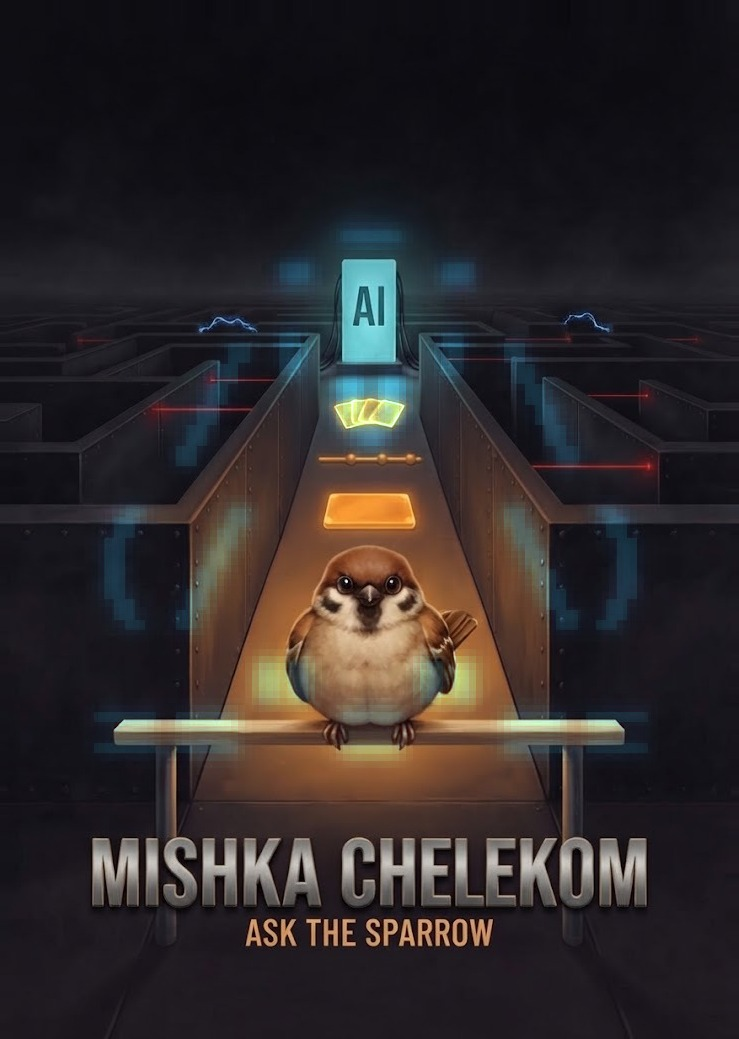
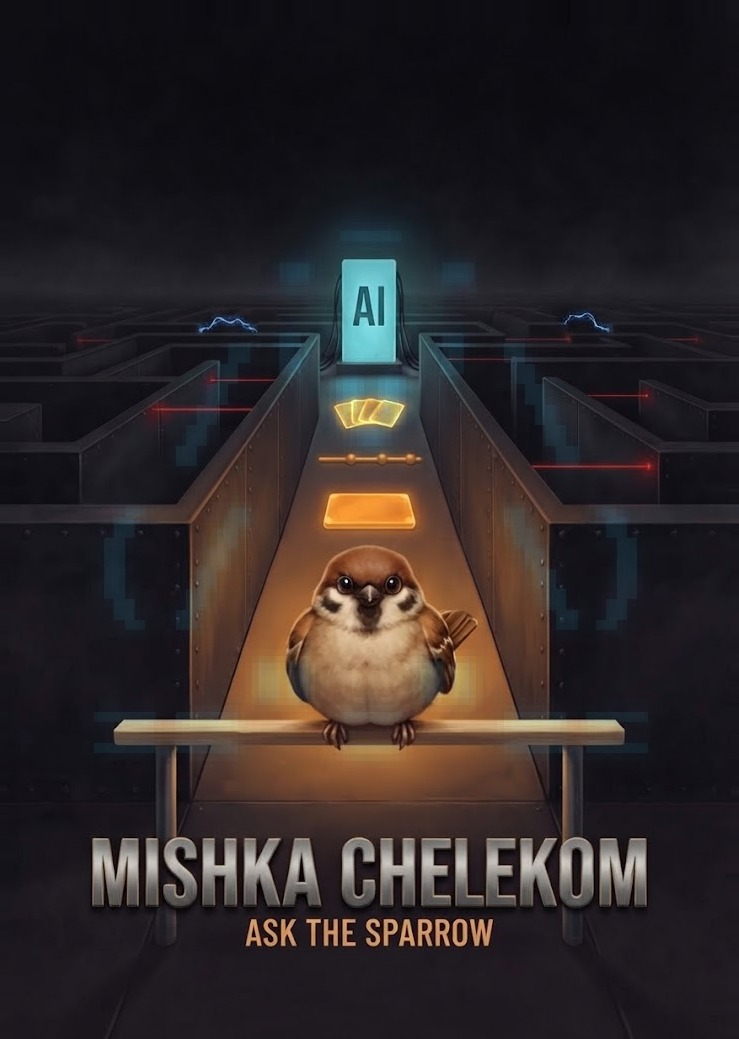
mishka_chelekom's box on the shelf, with its expansion retouched by hand
The root README shows the cover — the sealed face was committed
without rebuilding the shelf, and the README's check failed. The
expansion was retouched by the author, twice; the face and the sealed
cover are cut and stamped from it again.

diff --git a/README.md b/README.md
@@ -187,7 +187,7 @@ The cartridges on offer today, one to a row. The cover links to the cartridge's 
 | <img src="assets/readme/covers/clustering.jpg" width="80" alt="The clustering box cover"> | [**clustering**](igniter/lib/workbench_igniter/features/clustering/)<br>`v0.2.1` | Boots the production release as a distributed node for DNSCluster | [README](igniter/lib/workbench_igniter/features/clustering/README.md)<br>[NEED](igniter/lib/workbench_igniter/features/clustering/NEED.md)<br>[DESIGN](igniter/lib/workbench_igniter/features/clustering/DESIGN.md)<br>[CHANGELOG](igniter/lib/workbench_igniter/features/clustering/CHANGELOG.md) |
 | <img src="assets/readme/covers/health_probe.jpg" width="80" alt="The health_probe box cover"> | [**health_probe**](igniter/lib/workbench_igniter/features/health_probe/)<br>`v0.2.1` | Adds liveness and readiness probes as the first plug of the endpoint | [README](igniter/lib/workbench_igniter/features/health_probe/README.md)<br>[NEED](igniter/lib/workbench_igniter/features/health_probe/NEED.md)<br>[DESIGN](igniter/lib/workbench_igniter/features/health_probe/DESIGN.md)<br>[CHANGELOG](igniter/lib/workbench_igniter/features/health_probe/CHANGELOG.md) |
 | <img src="assets/readme/covers/ash.jpg" width="80" alt="The ash box cover"> | [**ash**](igniter/lib/workbench_igniter/features/ash/)<br>`v0.9.0` | Installs the Ash framework, configured like ash-hq.org's installer for an existing app | [README](igniter/lib/workbench_igniter/features/ash/README.md)<br>[NEED](igniter/lib/workbench_igniter/features/ash/NEED.md)<br>[DESIGN](igniter/lib/workbench_igniter/features/ash/DESIGN.md)<br>[CHANGELOG](igniter/lib/workbench_igniter/features/ash/CHANGELOG.md) |
-| <img src="assets/readme/covers/_placeholder.jpg" width="80" alt="The mishka_chelekom box cover"> | [**mishka_chelekom**](igniter/lib/workbench_igniter/features/mishka_chelekom/)<br>`v0.1.0` | Generates Mishka Chelekom's components into the project, all of them or the ones chosen | [README](igniter/lib/workbench_igniter/features/mishka_chelekom/README.md)<br>[NEED](igniter/lib/workbench_igniter/features/mishka_chelekom/NEED.md)<br>[DESIGN](igniter/lib/workbench_igniter/features/mishka_chelekom/DESIGN.md)<br>[CHANGELOG](igniter/lib/workbench_igniter/features/mishka_chelekom/CHANGELOG.md) |
+| <img src="assets/readme/covers/mishka_chelekom.jpg" width="80" alt="The mishka_chelekom box cover"> | [**mishka_chelekom**](igniter/lib/workbench_igniter/features/mishka_chelekom/)<br>`v0.1.0` | Generates Mishka Chelekom's components into the project, all of them or the ones chosen | [README](igniter/lib/workbench_igniter/features/mishka_chelekom/README.md)<br>[NEED](igniter/lib/workbench_igniter/features/mishka_chelekom/NEED.md)<br>[DESIGN](igniter/lib/workbench_igniter/features/mishka_chelekom/DESIGN.md)<br>[CHANGELOG](igniter/lib/workbench_igniter/features/mishka_chelekom/CHANGELOG.md) |
 | <img src="assets/readme/covers/db_admin.jpg" width="80" alt="The db_admin box cover"> | [**db_admin**](igniter/lib/workbench_igniter/features/db_admin/)<br>`v0.2.1` | Adds a database admin to the workspace, open on the project's database | [README](igniter/lib/workbench_igniter/features/db_admin/README.md)<br>[NEED](igniter/lib/workbench_igniter/features/db_admin/NEED.md)<br>[DESIGN](igniter/lib/workbench_igniter/features/db_admin/DESIGN.md)<br>[CHANGELOG](igniter/lib/workbench_igniter/features/db_admin/CHANGELOG.md) |
 | <img src="assets/readme/covers/_placeholder.jpg" width="80" alt="The k6 box cover"> | [**k6**](igniter/lib/workbench_igniter/features/k6/)<br>`v0.1.0` | Adds k6 load testing to the workspace, with a smoke test to start from | [README](igniter/lib/workbench_igniter/features/k6/README.md)<br>[NEED](igniter/lib/workbench_igniter/features/k6/NEED.md)<br>[CHANGELOG](igniter/lib/workbench_igniter/features/k6/CHANGELOG.md) |
 | <img src="assets/readme/covers/_placeholder.jpg" width="80" alt="The monitoring box cover"> | [**monitoring**](igniter/lib/workbench_igniter/features/monitoring/)<br>`v0.1.0` | Adds PromEx to the app, and Prometheus with Grafana to the workspace | [README](igniter/lib/workbench_igniter/features/monitoring/README.md)<br>[NEED](igniter/lib/workbench_igniter/features/monitoring/NEED.md)<br>[DESIGN](igniter/lib/workbench_igniter/features/monitoring/DESIGN.md)<br>[CHANGELOG](igniter/lib/workbench_igniter/features/monitoring/CHANGELOG.md) |

diff --git a/CHANGELOG.md b/CHANGELOG.md
@@ -14,6 +14,31 @@ This project adheres to [Semantic Versioning](https://semver.org/spec/v2.0.0.htm
 
 ## Unreleased
 
+### Added
+
+- **mishka_chelekom has its box.** Outside the repertoire of six eras,
+  by the author's decision: the library has pictures of its own — the
+  covers of its blog, a sparrow at some trade on every one — so the
+  cover is set in the world of the one for the version the cartridge
+  installs, 0.0.9, described and not reused, and its hero is the ASCII
+  sparrow the library's tasks print, made a body. That picture has the
+  sparrow frightened at the start of a maze with the AI far off; this
+  one turns it round — the sparrow calm on its perch, one corridor lit
+  straight through to the core, three components on it like stepping
+  stones — since what the release brought is the MCP server, and what
+  the server does is end the guessing. Three scenes were proposed in
+  place of six eras (`assets/covers/mishka_chelekom/eras.md`). The hero
+  was generated once, continued, and its expansion retouched by hand
+  by the author, twice; the back is composed on a plate drawn from it,
+  with a page of the components and the MCP server answering
+  `tools/list` as its two screens, both off a host probe with the
+  cartridge installed. The cover record gained three rows of evidence:
+  twenty decimal positions drawn on the face as dimension figures with
+  no reference image attached, the expansion painting out the hero's
+  flash, and a plate placed in words alone. The root README's shelf
+  shows the cover: committing the sealed face without rebuilding the
+  shelf had left the README's check failing.
+
 ## v0.19.1 - (2026-10-07)
 
 ### Fixed
